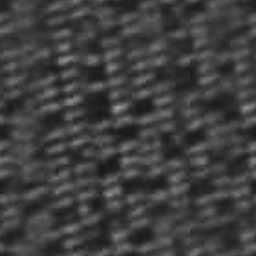
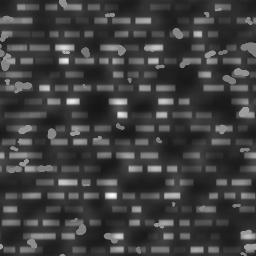
cabin777 py w1: fix py_r3 issues - crisp synthesised dash-weave + speckle fabric tile (photo mottling kept) and smaller crisp wing chips, lighter fabric / shells / flap (real cabins ref/web/py san_03/04: fabric/wall 0.57, shell 0.4), PY.sp 0.5525 = layout, low literature pocket (grey lip + black mes
Shared-file edits: SEATMAT py* values (src/09_seats.js), PHOTO_GAIN 17 (src/03_tex.js), py entries in test/make_swatches.py + tex/tex_py_back.png, tex/tex_py_confetti.png.
Triangles: py2 10592 -> 11892, py4 20228 -> 23200, LOD 5712 -> 5884, far unchanged.

Claude-Session: https://claude.ai/code/session_01BdVL6hZ8sese3DcwdvQ7TK

diff --git a/cabin777/src/09b_py.js b/cabin777/src/09b_py.js
@@ -4,21 +4,22 @@
 // New materials for this product: Object.assign(SEATMAT, {...}) at the top of this file (loaded after 09_seats.js).
 // ------------------------------------------------------------------
 // ================= PREMIUM ECONOMY (ZIM, 19 in, 15.6 in screen, leg rest + bicycle footrest) =================
-const PY = { back: 14 * DEG, hinge: [0.48, -0.09], sp: 0.5715 };
+// PY w1: sp 0.5525 = 05_layout pySp (seat ids / eye points and geometry agreed only to 2-3 cm with the old 0.5715) [D]
+const PY = { back: 14 * DEG, hinge: [0.48, -0.09], sp: 0.5525 };
 function pySeat(B, x0, lod, opts = {}) {
   const [hy, hz] = PY.hinge;
   const F = SEATMAT.pyFabric;
   const BH = M4.trs(x0, hy, hz, 0, PY.back);
-  B.add(gLoft(cushionSecs(0.48, 0.50, 0.115, -0.06, { edge: 0.04, r: 0.035, crown: 0.012 }), lod ? 3 : 4), M4.trs(x0, 0.425, -0.30, 0, 3 * DEG), F);
-  B.add(gRBox(0.49, 0.05, 0.48, 0.012, 1), M4.trs(x0, 0.335, -0.29), SEATMAT.pyShell);
+  B.add(gLoft(cushionSecs(0.455, 0.50, 0.115, -0.06, { edge: 0.04, r: 0.035, crown: 0.012 }), lod ? 3 : 4), M4.trs(x0, 0.425, -0.30, 0, 3 * DEG), F);
+  B.add(gRBox(0.46, 0.05, 0.48, 0.012, 1), M4.trs(x0, 0.335, -0.29), SEATMAT.pyArm);
   // QA r2: the centre of the back sits ~3 cm behind its old face between the bolsters (d 0.10 at y 0.34-0.52), and the top
   // blends into the headrest (overlapping sections instead of a step)
-  loftAt(B, [SEC(0.0, 0.44, 0.09, -0.01, 0.025), SEC(0.05, 0.47, 0.115, -0.02), SEC(0.18, 0.48, 0.13, -0.032, 0.045), SEC(0.34, 0.48, 0.10, -0.014, 0.042),
-    SEC(0.52, 0.47, 0.10, -0.009, 0.042), SEC(0.64, 0.45, 0.095, -0.008, 0.036), SEC(0.68, 0.44, 0.09, -0.006, 0.036)], BH, F, lod ? 3 : 4);
+  loftAt(B, [SEC(0.0, 0.44, 0.09, -0.01, 0.025), SEC(0.05, 0.46, 0.115, -0.02), SEC(0.18, 0.47, 0.13, -0.032, 0.045), SEC(0.34, 0.47, 0.10, -0.014, 0.042),
+    SEC(0.52, 0.46, 0.10, -0.009, 0.042), SEC(0.64, 0.45, 0.095, -0.008, 0.036), SEC(0.68, 0.44, 0.09, -0.006, 0.036)], BH, F, lod ? 3 : 4);
   // sculpted side bolsters standing ~5 cm proud of the centre, narrow at the waist (~0.30 above the cushion), flaring
   // at the shoulders (py_37301 / 37303) [D]
   for (const sd of [-1, 1]) {
-    const BX = M4.mul(BH, M4.trs(sd * 0.205, 0, -0.03, -sd * 14 * DEG));
+    const BX = M4.mul(BH, M4.trs(sd * 0.198, 0, -0.03, -sd * 14 * DEG));
     loftAt(B, [SEC(0.02, 0.07, 0.10, 0, 0.03), SEC(0.10, 0.085, 0.14, -0.016, 0.042), SEC(0.30, 0.07, 0.14, -0.016, 0.034), SEC(0.48, 0.09, 0.13, -0.012, 0.042),
       SEC(0.60, 0.08, 0.10, -0.006, 0.036), SEC(0.66, 0.06, 0.08, 0, 0.028)], BX, F, lod ? 2 : 3);
   }
@@ -28,7 +29,7 @@ function pySeat(B, x0, lod, opts = {}) {
   // QA r2: the shell's rounded top rises above the headrest (to 0.97, headrest 0.91) and frames the screen from behind
   // (san_13 / san_24, py_37304); the top sections are rounded to half their depth
   const ds = [[-0.04, 0.05], [0.12, 0.06], [0.34, 0.07], [0.5, 0.084], [0.68, 0.09], [0.78, 0.085], [0.88, 0.08], [0.94, 0.06], [0.97, 0.035]];
-  loftAt(B, ds.map(([y, d]) => SEC(y, 0.535, d, zr(y) - d / 2 + 0.01, y > 0.85 ? d / 2 - 0.002 : 0.026)), BH, SEATMAT.pyShell, lod ? 2 : 3);
+  loftAt(B, ds.map(([y, d]) => SEC(y, 0.525, d, zr(y) - d / 2 + 0.01, y > 0.85 ? d / 2 - 0.002 : 0.026)), BH, SEATMAT.pyShell, lod ? 2 : 3);
   // 6-way headrest with wings
   loftAt(B, [SEC(0.67, 0.42, 0.085, -0.008, 0.036), SEC(0.71, 0.39, 0.092, -0.012, 0.04), SEC(0.85, 0.39, 0.092, -0.012, 0.04), SEC(0.895, 0.37, 0.075, -0.006, 0.032), SEC(0.91, 0.33, 0.05, -0.002, 0.02)], BH, F, lod ? 3 : 4);
   for (const s of [-1, 1]) {
@@ -42,10 +43,14 @@ function pySeat(B, x0, lod, opts = {}) {
   // flap ~0.28 x 0.25, hanging a little below the wing pads (py_37301 seat C: 98 x 92 px on a 158 px headrest) [D]
   B.add(gRBox(0.28, 0.25, 0.008, 0.006, 1), M4.mul(BH, M4.trs(0, 0.78, -0.064)), SEATMAT.pyCover);
   B.add(gRBox(0.28, 0.008, 0.07, 0.004, 1), M4.mul(BH, M4.trs(0, 0.904, -0.03)), SEATMAT.pyCover);
-  B.add(gBox(0.50, 0.008, 0.006), M4.mul(BH, M4.trs(0, 0.04, zr(0.04) + 0.022)), SEATMAT.pyTrim);
+  B.add(gBox(0.49, 0.008, 0.006), M4.mul(BH, M4.trs(0, 0.04, zr(0.04) + 0.022)), SEATMAT.pyTrim);
   // fold-up leg rest (stowed below the pan front)
   B.add(gLoft([SEC(0.0, 0.44, 0.05, 0, 0.018), SEC(0.30, 0.46, 0.06, 0, 0.022)], 3), M4.trs(x0, 0.07, -0.545, 0, -4 * DEG), F);
-  B.add(gRBox(0.46, 0.02, 0.05, 0.008, 1), M4.trs(x0, 0.075, -0.54), SEATMAT.pyArm);            // leg-rest foot bar
+  B.add(gRBox(0.44, 0.02, 0.05, 0.008, 1), M4.trs(x0, 0.075, -0.54), SEATMAT.pyArm);            // leg-rest foot bar
+  // dark-grey hinge roller across the top of the stowed leg rest under the cushion nose, dark side links down to the
+  // foot bar (py_37301, san_17) [D]
+  B.add(gCyl(0.026, 0.026, 0.44, lod ? 8 : 14), M4.trs(x0, 0.345, -0.55, 0, 0, Math.PI / 2), SEATMAT.pyArm);
+  if (!lod) for (const s of [-1, 1]) B.add(gRBox(0.015, 0.28, 0.03, 0.006, 1), M4.trs(x0 + s * 0.222, 0.21, -0.55), SEATMAT.pyArm);
   if (lod) return;
   const on = (y, dz = 0, dx = 0) => M4.mul(BH, M4.trs(dx, y, zr(y) + dz));
   if (!opts.noScreen) {
@@ -55,12 +60,21 @@ function pySeat(B, x0, lod, opts = {}) {
     B.add(gRBox(0.44, 0.30, 0.04, 0.02, 1), scr(0.02), SEATMAT.pyShell);
     B.add(gRBox(0.373, 0.26, 0.012, 0.008, 1), scr(0.042), SEATMAT.bezel);
     B.add(gQuad(0.345, 0.194), scr(0.0495), SEATMAT.screen, atlasUV('screen'));
-    // two white placards under the housing, grey pocket bay with a black mesh pocket (san_18 / san_20)
+    // two white placards under the housing (py_37304, alv_13)
     for (const sx of [-0.12, 0.12]) B.add(gQuad(0.13, 0.03), on(0.505, 0.0115, sx), { c: '#e8e8e6', r: 0.6 });
-    B.add(gRBox(0.36, 0.20, 0.006, 0.005, 1), on(0.38, 0.011), SEATMAT.pyBay);
-    B.add(gRBox(0.30, 0.07, 0.01, 0.005, 1), on(0.32, 0.016), { c: '#1c1f24', r: 0.9, l: LAYER.grille });
+  }
+  {   // (row 25 backs too: seen from row 26)
+    // literature pocket low on the shell, just above the foot bar (alv_05, san_10, san_05): hard grey frame with a
+    // rounded lip standing ~5 cm proud, black mesh basket below it that narrows toward the bottom (trapezoid) [D]
+    B.add(gRBox(0.38, 0.035, 0.055, 0.012, 1), on(0.215, 0.028), SEATMAT.pyShell);
+    for (const s of [-1, 1]) B.add(gRBox(0.02, 0.17, 0.05, 0.008, 1), M4.mul(on(0.13, 0.024, s * 0.18), M4.trs(0, 0, 0, 0, 0, s * 9 * DEG)), SEATMAT.pyShell);
+    loftAt(B, [SEC(0.035, 0.29, 0.02, 0.012, 0.008), SEC(0.10, 0.33, 0.042, 0.022, 0.012), SEC(0.20, 0.35, 0.046, 0.024, 0.012)],
+      M4.mul(BH, M4.trs(0, 0, zr(0.13))), { c: '#16181b', r: 0.9, l: LAYER.grille }, 2);
+    B.add(gBox(0.34, 0.012, 0.008), on(0.20, 0.052), SEATMAT.black);                                // pocket mouth shadow
+  }
+  if (!opts.noScreen) {
     // coat hook: horizontal silver bullet high on the shell side + small round grey button below it (san_24)
-    B.add(gCyl(0.012, 0.016, 0.07, 10), M4.mul(on(0.80, 0.03, 0.235), M4.trs(0, 0, 0, 0, Math.PI / 2)), SEATMAT.frame);
+    B.add(gCyl(0.012, 0.016, 0.07, 10), M4.mul(on(0.80, 0.03, 0.235), M4.trs(0, 0, 0, 0, Math.PI / 2)), { c: '#c9ccd0', r: 0.25, m: 0.9, l: LAYER.brushed });
     B.add(gCyl(0.009, 0.009, 0.006, 10), M4.mul(on(0.74, 0.012, 0.235), M4.trs(0, 0, 0, 0, Math.PI / 2)), { c: '#c7c9cc', r: 0.4 });
     // gooseneck reading light: leaves the shell side at headrest height, arcs down + forward to a brushed-aluminium
     // head with a black lens at shoulder height; one per seat, on the console side (py_37305 / 37301, san_14)
@@ -93,17 +107,40 @@ function pyUnit(n, lod = false, opts = {}) {
   const arms = []; for (let k = 0; k <= n; k++) arms.push((k - n / 2) * sp);
   arms.forEach((xa, k) => {
     const inner = k > 0 && k < n;
-    const w = inner ? 0.085 : 0.07;
+    const w = inner ? 0.095 : 0.07;     // PY w1: console fits two universal sockets side by side (alv_08) [D]
     if (inner) {
       // floor-standing console between seats: blue-grey body, silver trim round the top, cubbies + controls on
       // its front face, red life-vest tab at the bottom (py_37301)
       B.add(gRBox(w, 0.62, 0.52, 0.014, 1), M4.trs(xa, 0.31, -0.28), SEATMAT.pyArm);
-      loftAt(B, [SEC(0.62, w + 0.01, 0.53, -0.28, 0.02), SEC(0.645, w + 0.014, 0.54, -0.28, 0.025), SEC(0.665, w + 0.006, 0.53, -0.28, 0.02)], M4.trs(xa, 0, 0), SEATMAT.pyArmPad, 2);
+      // lid: long dark leatherette pad with a stitched seam round its top (san_06, alv_04) [V]; grey plastic nose
+      loftAt(B, [SEC(0.62, w + 0.01, 0.46, -0.25, 0.02), SEC(0.645, w + 0.014, 0.47, -0.25, 0.025), SEC(0.665, w + 0.006, 0.46, -0.25, 0.02)], M4.trs(xa, 0, 0), SEATMAT.pyArmPad, 2);
+      B.add(gRBox(w + 0.012, 0.05, 0.08, 0.014, 1), M4.trs(xa, 0.64, -0.505), SEATMAT.pyArm);
+      if (!lod) {
+        for (const s of [-1, 1]) B.add(gBox(0.002, 0.002, 0.44), M4.trs(xa + s * (w / 2 - 0.006), 0.6655, -0.25), { c: '#8a8c90', r: 0.7 });
+        // seat-letter plaque on the aisle side of the nose + two small buttons (san_06 'G', alv_10 'K')
+        for (const s of [-1, 1]) {
+          B.add(gBox(0.002, 0.026, 0.026), M4.trs(xa + s * (w / 2 + 0.007), 0.635, -0.51), { c: '#e2e2de', r: 0.6 });
+          B.add(gBox(0.002, 0.016, 0.022), M4.trs(xa + s * (w / 2 + 0.007), 0.635, -0.47), SEATMAT.black);
+        }
+      }
       B.add(gBox(w + 0.016, 0.008, 0.545), M4.trs(xa, 0.618, -0.28), SEATMAT.pyTrim);
       if (!lod) {
-        for (const [y, h] of [[0.52, 0.07], [0.43, 0.07]]) B.add(gRBox(w - 0.02, h, 0.006, 0.006, 1), M4.trs(xa, y, -0.543), SEATMAT.pyShell);
-        B.add(gRBox(w - 0.03, 0.05, 0.004, 0.004, 1), M4.trs(xa, 0.33, -0.544), SEATMAT.black);
-        B.add(gBox(0.02, 0.07, 0.006), M4.trs(xa, 0.12, -0.545), { c: '#c8252b', r: 0.5 });
+        // front face (alv_08 / alv_09, py_37306): two open moulded cubbies (upper larger) with a royal-blue triangle in
+        // the corner, a black panel with two universal AC + USB sockets, then a lower block with the red life-vest tab
+        // each cubby: a grey front plate standing ~2.5 cm proud over the lower 3/4, dark opening only above it
+        for (const [y, h] of [[0.50, 0.10], [0.37, 0.08]]) {
+          B.add(gBox(w - 0.03, 0.02, 0.004), M4.trs(xa, y + h / 2 - 0.012, -0.543), SEATMAT.hole);
+          B.add(gRBox(w - 0.012, h * 0.74, 0.028, 0.007, 1), M4.trs(xa, y - h * 0.13, -0.554), SEATMAT.pyArm);
+          B.add(gBox(0.014, 0.014, 0.002), M4.trs(xa + w / 2 - 0.016, y + h * 0.24 - 0.01, -0.5685, 0, 0, Math.PI / 4), { c: '#2f47a8', r: 0.6 });
+        }
+        for (const s of [-1, 1]) {
+          B.add(gRBox(0.037, 0.045, 0.004, 0.003, 1), M4.trs(xa + s * 0.021, 0.245, -0.542), SEATMAT.port);
+          B.add(gBox(0.012, 0.005, 0.002), M4.trs(xa + s * 0.021, 0.262, -0.544), { c: '#3a3d44', r: 0.5 });     // USB
+          B.add(gBox(0.006, 0.02, 0.002), M4.trs(xa + s * 0.021, 0.238, -0.544), { c: '#26282c', r: 0.5 });      // socket slot
+        }
+        B.add(gBox(w - 0.004, 0.004, 0.006), M4.trs(xa, 0.205, -0.542), SEATMAT.black);               // lower block split
+        B.add(gRBox(0.016, 0.012, 0.01, 0.003, 1), M4.trs(xa, 0.175, -0.546), { c: '#2f47a8', r: 0.5 });
+        B.add(gBox(0.022, 0.085, 0.004), M4.trs(xa, 0.125, -0.546), { c: '#c8252b', r: 0.5, l: LAYER.fabric });
       }
     } else {
       // aisle / window end: large rounded arm shroud from the floor with a silver strip low down (py_37301 / 37303)
@@ -117,10 +154,7 @@ function pyUnit(n, lod = false, opts = {}) {
       if (!lod) B.add(gRBox(0.006, 0.28, 0.44, 0.01, 1), M4.trs(xa + o * 0.033, 0.36, -0.25), { c: '#55575a', r: 0.5, l: LAYER.plastic });
       B.add(gBox(0.006, 0.012, 0.58), M4.trs(xa + o * 0.037, 0.13, -0.27, 0, 8 * DEG), SEATMAT.pyTrim);
     }
-    if (inner && !lod) {      // controls, AC + USB; clean padded console top (py_37303)
-      B.add(gRBox(0.05, 0.006, 0.08, 0.004, 1), M4.trs(xa, 0.676, -0.3), SEATMAT.black);
-      B.add(gBox(0.016, 0.008, 0.004), M4.trs(xa - 0.02, 0.56, -0.502), SEATMAT.port);
-      B.add(gBox(0.03, 0.018, 0.004), M4.trs(xa + 0.02, 0.56, -0.502), SEATMAT.port);
+    if (inner && !lod) {
       // brushed-aluminium two-cell bottle bin on the console rear at knee height for the row behind (san_16 / 17 / 18)
       B.add(gRBox(0.06, 0.30, 0.08, 0.01, 1), M4.trs(xa, 0.37, 0.0), SEATMAT.pyArm);
       B.add(gRBox(0.11, 0.26, 0.065, 0.008, 1), M4.trs(xa, 0.38, 0.07), SEATMAT.pyBin);

diff --git a/cabin777/src/09_seats.js b/cabin777/src/09_seats.js
@@ -50,12 +50,15 @@ const SEATMAT = {
   // over-saturated navy (ACES toe) with #373f63 -> greyer navy;
   // wings: white flakes (~220) on charcoal-navy (55-65, py_37305). Tone-curve matched as for Y: back #6e7076 averages
   // #5c5f66 (py_37305 back #5f5f68), wing #6e7182 averages #585c6e (py_37305 wing #5d5f6e) [D]
-  pyFabric: { c: photoBase('#6e7076', 'py_back'), r: 0.9, l: LAYER.pyFleck },
-  pyCover: { c: '#343850', r: 0.5, l: LAYER.leather },   // photo flap #232740, R/B 0.55 (py_37305): less saturated
-  pyWing: { c: photoBase('#6e7182', 'py_confetti'), r: 0.9, l: LAYER.pyConfetti },
-  pyShell: { c: '#5e6062', r: 0.42, l: LAYER.plastic },
-  pyArm: { c: '#595b5e', r: 0.45, l: LAYER.plastic },
-  pyArmPad: { c: '#6f7173', r: 0.5, l: LAYER.leather },
+  // PY w1: real cabins (ref/web/py san_03 / san_04: fabric / wall 107 / 189 = 0.57; ANA py_37301 / 37303 0.8) -> lighter
+  // than the r3 render (0.45); wing = back tone (py_37301 B/R 1.26 vs 1.24), flap / back 0.56-0.65 (san_04, py_37302),
+  // shells / wall 0.38-0.42 (san_03 71-82 / 189, py_37303) [D]
+  pyFabric: { c: photoBase('#94969b', 'py_back'), r: 0.9, l: LAYER.pyFleck },
+  pyCover: { c: '#40486c', r: 0.45, l: LAYER.leather },   // photo flap #232740, R/B 0.55 (py_37305): less saturated
+  pyWing: { c: photoBase('#86888e', 'py_confetti'), r: 0.9, l: LAYER.pyConfetti },
+  pyShell: { c: '#74767a', r: 0.42, l: LAYER.plastic },
+  pyArm: { c: '#5c5e62', r: 0.45, l: LAYER.plastic },
+  pyArmPad: { c: '#4a4c50', r: 0.5, l: LAYER.leather },   // dark stitched leatherette lids (san_06, alv_04)
   pyBin: { c: '#b8bcc0', r: 0.3, m: 0.85, l: LAYER.brushed },
   pyBay: { c: '#4a4c50', r: 0.6, l: LAYER.plastic },
   pyTrim: { c: '#b9bec4', r: 0.28, m: 0.8, l: LAYER.brushed },

diff --git a/cabin777/src/03_tex.js b/cabin777/src/03_tex.js
@@ -26,7 +26,7 @@ let PHOTO_PIX = null;
 //  linear vs 6.3 % in the column-normalised swatch -> x2) [D], 23 PY / Y confetti 1.0 (white flakes ~220 on a 55-65
 //  ground, py_37305)
 const PHOTO_GAIN = {
-  17: 1.0,
+  17: 0.65,   // PY w1: synthesised crisp dash tile (make_swatches synth_py_back) read as static at 1.0 vs san_01 / alv_04 [D]
   18: 0.5,
   19: 2.0,
   20: 0.7,

diff --git a/cabin777/test/make_swatches.py b/cabin777/test/make_swatches.py
@@ -62,6 +62,81 @@ COLNORM = {'j_ash'}
 ALONG = {'j_ash': 24}
 
 
+def _blur_wrap(a, s):
+    """periodic gaussian blur (tile stays seamless)"""
+    k = np.fft.fftfreq(a.shape[0])[:, None] ** 2 + np.fft.fftfreq(a.shape[1])[None, :] ** 2
+    return np.real(np.fft.ifft2(np.fft.fft2(a) * np.exp(-2 * (np.pi * s) ** 2 * k)))
+
+
+def synth_py_back(ratio, seed=7):
+    """PY QA w1: the 140 px photo crop upsampled to 256 renders as soft blobs up close. Keep only the photo's mottling
+    (low-pass of the crop) and redraw the weave crisply: light horizontal dashes in rows on a charcoal ground.
+    py_37305 crop (860 px/m): row period 7.5 px = 8.7 mm (y autocorrelation peaks 7-8 / 15 / 22 px), dash half-length
+    ~6 px -> dashes ~9-18 mm, ~4 mm tall; p10 / p90 76 / 118 sRGB; dark rectangular patches where dashes are dim [D]"""
+    rng = np.random.default_rng(seed)
+    mot = _blur_wrap(ratio.mean(2), 5)
+    mot = (mot - mot.mean()) / (mot.std() + 1e-6)
+    rows = 19                                      # 0.163 m / 19 = 8.6 mm
+    ph = S / rows
+    y = np.arange(S)[:, None]; x = np.arange(S)[None, :]
+    out = np.full((S, S), 1.0)
+    for r in range(rows):
+        yc = (r + 0.5) * ph
+        prof = np.exp(-0.5 * (((y - yc + S / 2) % S - S / 2) / (ph * 0.2)) ** 4)[:, 0]   # ~3.5 mm tall flat-top dash
+        xs = rng.uniform(0, 30); line = np.zeros(S)
+        while xs < S + 30:
+            ln = rng.uniform(10, 22); gap = rng.uniform(2.5, 5)
+            u = (np.arange(S) - xs) % S
+            seg = np.clip(np.minimum(u, ln - u) / 1.5, 0, 1) * (u < ln)
+            m = mot[int(yc) % S, int(xs + ln / 2) % S]
+            amp = np.clip(0.95 + 0.7 * m + rng.normal(0, 0.25), 0.1, 2.2)           # dim dashes in the dark patches
+            line = np.maximum(line, seg * amp)
+            xs += ln + gap
+        out += prof[:, None] * line[None, :]
+    out *= np.exp(0.22 * mot)                      # faint large-scale variation of the ground
+    # real cabins (san_01 / san_02 / alv_04 / alv_17, ref/web/py) show the same cloth as a large-repeat mix: dash
+    # weave toward the edges, white chips / speckle over it in the lighter zones (ANA py_37302 backs too) [V]
+    yy, xx = np.mgrid[0:S, 0:S]
+    for cy, cx in rng.uniform(0, S, (90, 2)):
+        m = mot[int(cy), int(cx)]
+        if m < -0.4: continue
+        dy = (yy - cy + S / 2) % S - S / 2; dx = (xx - cx + S / 2) % S - S / 2
+        a = rng.uniform(0, np.pi); r0 = rng.uniform(2.5, 6.0)
+        rr = np.hypot(dx * 0.8, dy / 0.8); th = np.arctan2(dy, dx)
+        lob = 1 + 0.3 * np.cos(2 * (th - a)) + rng.uniform(0, 0.2) * np.cos(3 * th + rng.uniform(0, 6))
+        out = np.maximum(out, (2.9 + 0.5 * m) * np.clip((r0 * lob - rr) / 1.0, 0, 1))
+    return np.repeat(out[:, :, None], 3, 2)
+
+
+def synth_py_confetti(ratio, seed=11):
+    """PY QA w1: crisp white petal flakes instead of the soft upsampled crop. py_37305 wing crop (90 px = 0.07 m):
+    ~22 flakes, median 27 px^2 (~4-5 mm), 6-8 % area above 150, ground p10 72 / flakes 200+ sRGB (~12x linear) [D].
+    In the cabin views the photo-sized chips read as 2-3 cm blotches against real in-cabin photos (san_01, alv_04: fine
+    speckle) -> 34 smaller chips (same ~7 % area) [A]"""
+    rng = np.random.default_rng(seed)
+    out = np.ones((S, S))
+    yy, xx = np.mgrid[0:S, 0:S]
+    pts = []
+    while len(pts) < 34:                           # blue-noise placement (flakes never touch in the photo)
+        p = rng.uniform(0, S, 2)
+        if all(min(abs(p[0] - q[0]), S - abs(p[0] - q[0])) ** 2 + min(abs(p[1] - q[1]), S - abs(p[1] - q[1])) ** 2 > 30 ** 2 for q in pts): pts.append(p)
+    for cy, cx in pts:
+        dy = (yy - cy + S / 2) % S - S / 2; dx = (xx - cx + S / 2) % S - S / 2
+        a = rng.uniform(0, np.pi); r0 = rng.uniform(4.0, 7.5)
+        th = np.arctan2(dy, dx); rr = np.hypot(dx, dy)
+        # irregular torn-paper chip: random low harmonics, elongated along a random axis
+        lob = 1 + 0.3 * np.cos(2 * (th - a)) + sum(rng.uniform(0, 0.14) * np.cos(k * th + rng.uniform(0, 6)) for k in (3, 4, 5, 7))
+        out += 7 * np.clip((r0 * lob - rr) / 1.0, 0, 1)
+    for cy, cx in rng.uniform(0, S, (40, 2)):      # small specks between the chips + fine ground grain
+        rr = np.hypot((yy - cy + S / 2) % S - S / 2, (xx - cx + S / 2) % S - S / 2)
+        out += 3 * np.clip((rng.uniform(1.5, 3.0) - rr) / 1.0, 0, 1)
+    out *= np.exp(0.12 * _blur_wrap(rng.normal(0, 1, (S, S)), 1.2) / 0.2)
+    return np.repeat(out[:, :, None], 3, 2)
+
+
+SYNTH = {'py_back': synth_py_back, 'py_confetti': synth_py_confetti}
+
+
 def tileable(a):
     """offset-and-blend, one axis at a time: cross-fade with a half-period roll along x (mask depends on x only), then the
     result with its roll along y. QA r2: the old 2-D mask used the rolled copy near the corners, where its own seams lie
@@ -105,6 +180,7 @@ def make(name, photo, box, size, rot=0):
     lim = 1.5 if enc == 2 else enc * 0.95
     lum = ratio.mean(2, keepdims=True)
     ratio = np.where(lum > lim, ratio * lim / np.maximum(lum, 1e-6), ratio)
+    if name in SYNTH: ratio = SYNTH[name](ratio)
     ratio /= ratio.reshape(-1, 3).mean(0)
     out = np.clip(ratio / enc, 0, 1)
     Image.fromarray((out * 255 + 0.5).astype(np.uint8)).save(os.path.join(root, 'tex', f'tex_{name}.png'))

diff --git a/cabin777/review/qa/from_py.md b/cabin777/review/qa/from_py.md
@@ -1,0 +1,17 @@
+# Items from the PY worker
+
+## To lighting + integration (`test/qa.js`)
+
+1. **`q13_pyFront` cannot be rated** (py_r3 high issue): its camera sits in the J/PY bulkhead / curtain, so no PY seat
+   front is visible. The monuments worker's `__rel('25C', 0.35, 1.75, -0.72, ...)` also works. The PY worker rated with
+   a camera over the right aisle just aft of the bulkhead, looking aft toward the centre block. Its framing is closest to
+   py_37302 (H/K pair and windows on the left, the centre block large on the right):
+   `q13_pyFront: [\`__rel('25G', 0.52, 1.95, -0.35, Math.PI-0.35, -0.42)\`, ['py_37302'], 'PY cabin from the front']`
+2. Optional: add a PY seat-back view (real photos ref/web/py san_05 / san_13 / alv_03):
+   `q13b_pyBacks: [\`__rel('26H', 0.1, 1.45, 1.25, 0.05, -0.3)\`, ['py_37304'], 'PY seat backs, screens, pockets']`.
+
+## To monuments (`src/10_mono.js`)
+
+- Row 25 faces the J/PY bulkhead, which carries wall-mounted monitors and literature pockets (real photos ref/web/py
+  alv_14 / alv_15 / san_03, and ANA py_37303). The monitors are already modelled (`monitor: true`); please check them
+  against alv_14 (two monitors per seat pair at about eye height, with grey pockets below).
